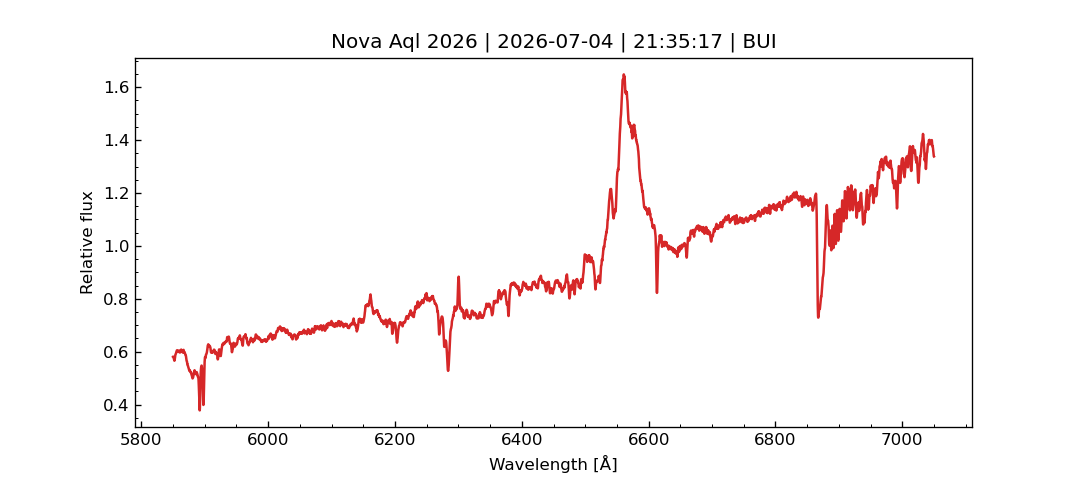
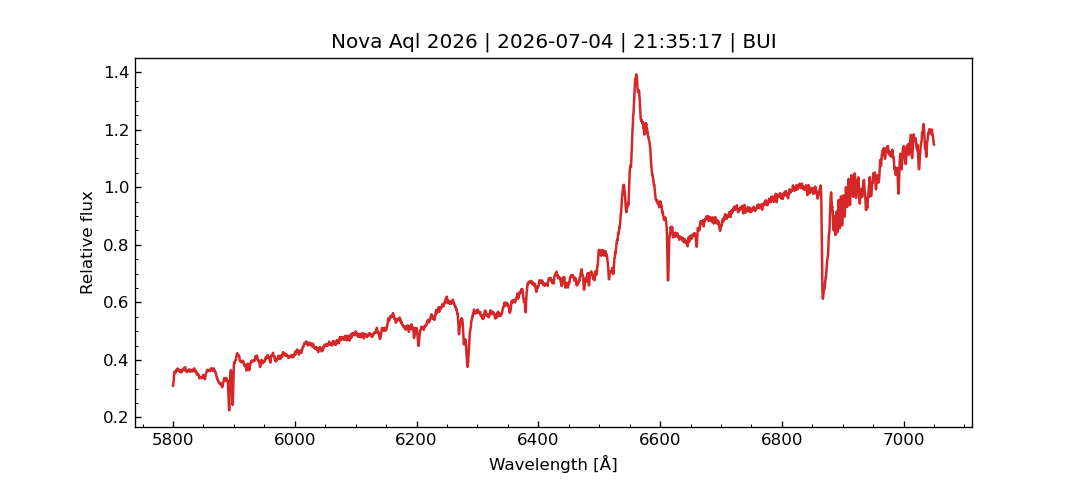
*

diff --git a/novaaql2026.html b/novaaql2026.html
@@ -154,6 +154,21 @@
     </tr>
     <tr>
       <td>2026-07-03</td>
+      <td>06:41</td>
+      <td>61224.779</td>
+      <td>JRF</td>
+      <td>MTP-US</td>
+      <td>502</td>
+      <td><svg xmlns="http://www.w3.org/2000/svg" width="5" height="16" fill="#007bff" class="bi bi-square-fill" viewBox="1 0 5 16"><path d="M0 2a2 2 0 0 1 2-2h12a2 2 0 0 1 2 2v12a2 2 0 0 1-2 2H2a2 2 0 0 1-2-2V2z"/></svg></td>
+      <td>3682</td>
+      <td>7400</td>
+      <td><svg xmlns="http://www.w3.org/2000/svg" width="5" height="16" fill="#151B8D" class="bi bi-square-fill" viewBox="1 0 5 16"><path d="M0 2a2 2 0 0 1 2-2h12a2 2 0 0 1 2 2v12a2 2 0 0 1-2 2H2a2 2 0 0 1-2-2V2z"/></svg><svg xmlns="http://www.w3.org/2000/svg" width="5" height="16" fill="#4AA02C" class="bi bi-square-fill" viewBox="1 0 5 16"><path d="M0 2a2 2 0 0 1 2-2h12a2 2 0 0 1 2 2v12a2 2 0 0 1-2 2H2a2 2 0 0 1-2-2V2z"/></svg><svg xmlns="http://www.w3.org/2000/svg" width="5" height="16" fill="#EAC117" class="bi bi-square-fill" viewBox="1 0 5 16"><path d="M0 2a2 2 0 0 1 2-2h12a2 2 0 0 1 2 2v12a2 2 0 0 1-2 2H2a2 2 0 0 1-2-2V2z"/></svg><svg xmlns="http://www.w3.org/2000/svg" width="5" height="16" fill="#E42217" class="bi bi-square-fill" viewBox="1 0 5 16"><path d="M0 2a2 2 0 0 1 2-2h12a2 2 0 0 1 2 2v12a2 2 0 0 1-2 2H2a2 2 0 0 1-2-2V2z"/></svg></td>
+      <td><a href="spectra/asdb_novaaql2026_20260703_279.fit" download target="_blank"><svg width="1em" height="1em" viewBox="0 0 16 16" class="bi bi-download" fill="currentColor" xmlns="http://www.w3.org/2000/svg"><path fill-rule="evenodd" d="M.5 8a.5.5 0 0 1 .5.5V12a1 1 0 0 0 1 1h12a1 1 0 0 0 1-1V8.5a.5.5 0 0 1 1 0V12a2 2 0 0 1-2 2H2a2 2 0 0 1-2-2V8.5A.5.5 0 0 1 .5 8z"/><path fill-rule="evenodd" d="M5 7.5a.5.5 0 0 1 .707 0L8 9.793 10.293 7.5a.5.5 0 1 1 .707.707l-2.646 2.647a.5.5 0 0 1-.708 0L5 8.207A.5.5 0 0 1 5 7.5z"/><path fill-rule="evenodd" d="M8 1a.5.5 0 0 1 .5.5v8a.5.5 0 0 1-1 0v-8A.5.5 0 0 1 8 1z"/></svg></a></td>
+      <td><a href="figures/asdb_novaaql2026_20260703_279.png" target="_blank"><svg width="1em" height="1em" viewBox="0 0 16 16" class="bi bi-eye" fill="currentColor" xmlns="http://www.w3.org/2000/svg"><path fill-rule="evenodd" d="M16 8s-3-5.5-8-5.5S0 8 0 8s3 5.5 8 5.5S16 8 16 8zM1.173 8a13.134 13.134 0 0 0 1.66 2.043C4.12 11.332 5.88 12.5 8 12.5c2.12 0 3.879-1.168 5.168-2.457A13.134 13.134 0 0 0 14.828 8a13.133 13.133 0 0 0-1.66-2.043C11.879 4.668 10.119 3.5 8 3.5c-2.12 0-3.879 1.168-5.168 2.457A13.133 13.133 0 0 0 1.172 8z"/><path fill-rule="evenodd" d="M8 5.5a2.5 2.5 0 1 0 0 5 2.5 2.5 0 0 0 0-5zM4.5 8a3.5 3.5 0 1 1 7 0 3.5 3.5 0 0 1-7 0z"/></svg></a></td>
+      <td></td>
+    </tr>
+    <tr>
+      <td>2026-07-03</td>
       <td>21:12</td>
       <td>61225.384</td>
       <td>VLE</td>
@@ -220,26 +235,11 @@
       <td>ANT-FR</td>
       <td>2775</td>
       <td><svg xmlns="http://www.w3.org/2000/svg" width="5" height="16" fill="#007bff" class="bi bi-square-fill" viewBox="1 0 5 16"><path d="M0 2a2 2 0 0 1 2-2h12a2 2 0 0 1 2 2v12a2 2 0 0 1-2 2H2a2 2 0 0 1-2-2V2z"/></svg><svg xmlns="http://www.w3.org/2000/svg" width="5" height="16" fill="#007bff" class="bi bi-square-fill" viewBox="1 0 5 16"><path d="M0 2a2 2 0 0 1 2-2h12a2 2 0 0 1 2 2v12a2 2 0 0 1-2 2H2a2 2 0 0 1-2-2V2z"/></svg><svg xmlns="http://www.w3.org/2000/svg" width="5" height="16" fill="#007bff" class="bi bi-square-fill" viewBox="1 0 5 16"><path d="M0 2a2 2 0 0 1 2-2h12a2 2 0 0 1 2 2v12a2 2 0 0 1-2 2H2a2 2 0 0 1-2-2V2z"/></svg></td>
-      <td>5850</td>
+      <td>5800</td>
       <td>7050</td>
       <td><svg xmlns="http://www.w3.org/2000/svg" width="5" height="16" fill="#EAC117" class="bi bi-square-fill" viewBox="1 0 5 16"><path d="M0 2a2 2 0 0 1 2-2h12a2 2 0 0 1 2 2v12a2 2 0 0 1-2 2H2a2 2 0 0 1-2-2V2z"/></svg><svg xmlns="http://www.w3.org/2000/svg" width="5" height="16" fill="#E42217" class="bi bi-square-fill" viewBox="1 0 5 16"><path d="M0 2a2 2 0 0 1 2-2h12a2 2 0 0 1 2 2v12a2 2 0 0 1-2 2H2a2 2 0 0 1-2-2V2z"/></svg></td>
       <td><a href="spectra/asdb_novaaql2026_20260704_899.fit" download target="_blank"><svg width="1em" height="1em" viewBox="0 0 16 16" class="bi bi-download" fill="currentColor" xmlns="http://www.w3.org/2000/svg"><path fill-rule="evenodd" d="M.5 8a.5.5 0 0 1 .5.5V12a1 1 0 0 0 1 1h12a1 1 0 0 0 1-1V8.5a.5.5 0 0 1 1 0V12a2 2 0 0 1-2 2H2a2 2 0 0 1-2-2V8.5A.5.5 0 0 1 .5 8z"/><path fill-rule="evenodd" d="M5 7.5a.5.5 0 0 1 .707 0L8 9.793 10.293 7.5a.5.5 0 1 1 .707.707l-2.646 2.647a.5.5 0 0 1-.708 0L5 8.207A.5.5 0 0 1 5 7.5z"/><path fill-rule="evenodd" d="M8 1a.5.5 0 0 1 .5.5v8a.5.5 0 0 1-1 0v-8A.5.5 0 0 1 8 1z"/></svg></a></td>
       <td><a href="figures/asdb_novaaql2026_20260704_899.png" target="_blank"><svg width="1em" height="1em" viewBox="0 0 16 16" class="bi bi-eye" fill="currentColor" xmlns="http://www.w3.org/2000/svg"><path fill-rule="evenodd" d="M16 8s-3-5.5-8-5.5S0 8 0 8s3 5.5 8 5.5S16 8 16 8zM1.173 8a13.134 13.134 0 0 0 1.66 2.043C4.12 11.332 5.88 12.5 8 12.5c2.12 0 3.879-1.168 5.168-2.457A13.134 13.134 0 0 0 14.828 8a13.133 13.133 0 0 0-1.66-2.043C11.879 4.668 10.119 3.5 8 3.5c-2.12 0-3.879 1.168-5.168 2.457A13.133 13.133 0 0 0 1.172 8z"/><path fill-rule="evenodd" d="M8 5.5a2.5 2.5 0 1 0 0 5 2.5 2.5 0 0 0 0-5zM4.5 8a3.5 3.5 0 1 1 7 0 3.5 3.5 0 0 1-7 0z"/></svg></a></td>
-      <td></td>
-    </tr>
-    <tr>
-      <td>2026-07-03</td>
-      <td>06:41</td>
-      <td>61224.779</td>
-      <td>JRF</td>
-      <td>MTP-US</td>
-      <td>502</td>
-      <td><svg xmlns="http://www.w3.org/2000/svg" width="5" height="16" fill="#007bff" class="bi bi-square-fill" viewBox="1 0 5 16"><path d="M0 2a2 2 0 0 1 2-2h12a2 2 0 0 1 2 2v12a2 2 0 0 1-2 2H2a2 2 0 0 1-2-2V2z"/></svg></td>
-      <td>3682</td>
-      <td>7400</td>
-      <td><svg xmlns="http://www.w3.org/2000/svg" width="5" height="16" fill="#151B8D" class="bi bi-square-fill" viewBox="1 0 5 16"><path d="M0 2a2 2 0 0 1 2-2h12a2 2 0 0 1 2 2v12a2 2 0 0 1-2 2H2a2 2 0 0 1-2-2V2z"/></svg><svg xmlns="http://www.w3.org/2000/svg" width="5" height="16" fill="#4AA02C" class="bi bi-square-fill" viewBox="1 0 5 16"><path d="M0 2a2 2 0 0 1 2-2h12a2 2 0 0 1 2 2v12a2 2 0 0 1-2 2H2a2 2 0 0 1-2-2V2z"/></svg><svg xmlns="http://www.w3.org/2000/svg" width="5" height="16" fill="#EAC117" class="bi bi-square-fill" viewBox="1 0 5 16"><path d="M0 2a2 2 0 0 1 2-2h12a2 2 0 0 1 2 2v12a2 2 0 0 1-2 2H2a2 2 0 0 1-2-2V2z"/></svg><svg xmlns="http://www.w3.org/2000/svg" width="5" height="16" fill="#E42217" class="bi bi-square-fill" viewBox="1 0 5 16"><path d="M0 2a2 2 0 0 1 2-2h12a2 2 0 0 1 2 2v12a2 2 0 0 1-2 2H2a2 2 0 0 1-2-2V2z"/></svg></td>
-      <td><a href="spectra/asdb_novaaql2026_20260703_279.fit" download target="_blank"><svg width="1em" height="1em" viewBox="0 0 16 16" class="bi bi-download" fill="currentColor" xmlns="http://www.w3.org/2000/svg"><path fill-rule="evenodd" d="M.5 8a.5.5 0 0 1 .5.5V12a1 1 0 0 0 1 1h12a1 1 0 0 0 1-1V8.5a.5.5 0 0 1 1 0V12a2 2 0 0 1-2 2H2a2 2 0 0 1-2-2V8.5A.5.5 0 0 1 .5 8z"/><path fill-rule="evenodd" d="M5 7.5a.5.5 0 0 1 .707 0L8 9.793 10.293 7.5a.5.5 0 1 1 .707.707l-2.646 2.647a.5.5 0 0 1-.708 0L5 8.207A.5.5 0 0 1 5 7.5z"/><path fill-rule="evenodd" d="M8 1a.5.5 0 0 1 .5.5v8a.5.5 0 0 1-1 0v-8A.5.5 0 0 1 8 1z"/></svg></a></td>
-      <td><a href="figures/asdb_novaaql2026_20260703_279.png" target="_blank"><svg width="1em" height="1em" viewBox="0 0 16 16" class="bi bi-eye" fill="currentColor" xmlns="http://www.w3.org/2000/svg"><path fill-rule="evenodd" d="M16 8s-3-5.5-8-5.5S0 8 0 8s3 5.5 8 5.5S16 8 16 8zM1.173 8a13.134 13.134 0 0 0 1.66 2.043C4.12 11.332 5.88 12.5 8 12.5c2.12 0 3.879-1.168 5.168-2.457A13.134 13.134 0 0 0 14.828 8a13.133 13.133 0 0 0-1.66-2.043C11.879 4.668 10.119 3.5 8 3.5c-2.12 0-3.879 1.168-5.168 2.457A13.133 13.133 0 0 0 1.172 8z"/><path fill-rule="evenodd" d="M8 5.5a2.5 2.5 0 1 0 0 5 2.5 2.5 0 0 0 0-5zM4.5 8a3.5 3.5 0 1 1 7 0 3.5 3.5 0 0 1-7 0z"/></svg></a></td>
       <td></td>
     </tr>
     <tr>

diff --git a/chcyg.html b/chcyg.html
@@ -97,7 +97,7 @@
     <div class="card">
       <div class="card-body">
 
-        <p class="card-text">Number of spectra:   1048</p>
+        <p class="card-text">Number of spectra:   1047</p>
 <p class="card-text">First spectrum:   2011-04-21</p>
 <p class="card-text">Last spectrum:   2026-06-20</p>
 <br><br>
@@ -136,21 +136,6 @@
     </tr>
   </thead>
   <tbody>
-    <tr>
-      <td>2026-06-20</td>
-      <td>04:28</td>
-      <td>61211.686</td>
-      <td>FAS</td>
-      <td>DCO-US</td>
-      <td>9000</td>
-      <td><svg xmlns="http://www.w3.org/2000/svg" width="5" height="16" fill="#007bff" class="bi bi-square-fill" viewBox="1 0 5 16"><path d="M0 2a2 2 0 0 1 2-2h12a2 2 0 0 1 2 2v12a2 2 0 0 1-2 2H2a2 2 0 0 1-2-2V2z"/></svg><svg xmlns="http://www.w3.org/2000/svg" width="5" height="16" fill="#007bff" class="bi bi-square-fill" viewBox="1 0 5 16"><path d="M0 2a2 2 0 0 1 2-2h12a2 2 0 0 1 2 2v12a2 2 0 0 1-2 2H2a2 2 0 0 1-2-2V2z"/></svg><svg xmlns="http://www.w3.org/2000/svg" width="5" height="16" fill="#007bff" class="bi bi-square-fill" viewBox="1 0 5 16"><path d="M0 2a2 2 0 0 1 2-2h12a2 2 0 0 1 2 2v12a2 2 0 0 1-2 2H2a2 2 0 0 1-2-2V2z"/></svg><svg xmlns="http://www.w3.org/2000/svg" width="5" height="16" fill="#007bff" class="bi bi-square-fill" viewBox="1 0 5 16"><path d="M0 2a2 2 0 0 1 2-2h12a2 2 0 0 1 2 2v12a2 2 0 0 1-2 2H2a2 2 0 0 1-2-2V2z"/></svg><svg xmlns="http://www.w3.org/2000/svg" width="5" height="16" fill="#007bff" class="bi bi-square-fill" viewBox="1 0 5 16"><path d="M0 2a2 2 0 0 1 2-2h12a2 2 0 0 1 2 2v12a2 2 0 0 1-2 2H2a2 2 0 0 1-2-2V2z"/></svg></td>
-      <td>3775</td>
-      <td>9250</td>
-      <td><svg xmlns="http://www.w3.org/2000/svg" width="5" height="16" fill="#151B8D" class="bi bi-square-fill" viewBox="1 0 5 16"><path d="M0 2a2 2 0 0 1 2-2h12a2 2 0 0 1 2 2v12a2 2 0 0 1-2 2H2a2 2 0 0 1-2-2V2z"/></svg><svg xmlns="http://www.w3.org/2000/svg" width="5" height="16" fill="#4AA02C" class="bi bi-square-fill" viewBox="1 0 5 16"><path d="M0 2a2 2 0 0 1 2-2h12a2 2 0 0 1 2 2v12a2 2 0 0 1-2 2H2a2 2 0 0 1-2-2V2z"/></svg><svg xmlns="http://www.w3.org/2000/svg" width="5" height="16" fill="#EAC117" class="bi bi-square-fill" viewBox="1 0 5 16"><path d="M0 2a2 2 0 0 1 2-2h12a2 2 0 0 1 2 2v12a2 2 0 0 1-2 2H2a2 2 0 0 1-2-2V2z"/></svg><svg xmlns="http://www.w3.org/2000/svg" width="5" height="16" fill="#E42217" class="bi bi-square-fill" viewBox="1 0 5 16"><path d="M0 2a2 2 0 0 1 2-2h12a2 2 0 0 1 2 2v12a2 2 0 0 1-2 2H2a2 2 0 0 1-2-2V2z"/></svg><svg xmlns="http://www.w3.org/2000/svg" width="5" height="16" fill="#8C001A" class="bi bi-square-fill" viewBox="1 0 5 16"><path d="M0 2a2 2 0 0 1 2-2h12a2 2 0 0 1 2 2v12a2 2 0 0 1-2 2H2a2 2 0 0 1-2-2V2z"/></svg></td>
-      <td><a href="spectra/asdb_chcyg_20260620_186.fit" download target="_blank"><svg width="1em" height="1em" viewBox="0 0 16 16" class="bi bi-download" fill="currentColor" xmlns="http://www.w3.org/2000/svg"><path fill-rule="evenodd" d="M.5 8a.5.5 0 0 1 .5.5V12a1 1 0 0 0 1 1h12a1 1 0 0 0 1-1V8.5a.5.5 0 0 1 1 0V12a2 2 0 0 1-2 2H2a2 2 0 0 1-2-2V8.5A.5.5 0 0 1 .5 8z"/><path fill-rule="evenodd" d="M5 7.5a.5.5 0 0 1 .707 0L8 9.793 10.293 7.5a.5.5 0 1 1 .707.707l-2.646 2.647a.5.5 0 0 1-.708 0L5 8.207A.5.5 0 0 1 5 7.5z"/><path fill-rule="evenodd" d="M8 1a.5.5 0 0 1 .5.5v8a.5.5 0 0 1-1 0v-8A.5.5 0 0 1 8 1z"/></svg></a></td>
-      <td><a href="figures/asdb_chcyg_20260620_186.png" target="_blank"><svg width="1em" height="1em" viewBox="0 0 16 16" class="bi bi-eye" fill="currentColor" xmlns="http://www.w3.org/2000/svg"><path fill-rule="evenodd" d="M16 8s-3-5.5-8-5.5S0 8 0 8s3 5.5 8 5.5S16 8 16 8zM1.173 8a13.134 13.134 0 0 0 1.66 2.043C4.12 11.332 5.88 12.5 8 12.5c2.12 0 3.879-1.168 5.168-2.457A13.134 13.134 0 0 0 14.828 8a13.133 13.133 0 0 0-1.66-2.043C11.879 4.668 10.119 3.5 8 3.5c-2.12 0-3.879 1.168-5.168 2.457A13.133 13.133 0 0 0 1.172 8z"/><path fill-rule="evenodd" d="M8 5.5a2.5 2.5 0 1 0 0 5 2.5 2.5 0 0 0 0-5zM4.5 8a3.5 3.5 0 1 1 7 0 3.5 3.5 0 0 1-7 0z"/></svg></a></td>
-      <td></td>
-    </tr>
     <tr>
       <td>2026-06-20</td>
       <td>04:28</td>

diff --git a/symbiotics.html b/symbiotics.html
@@ -75,8 +75,8 @@
  <a href="https://ui.adsabs.harvard.edu/abs/2019ApJS..240...21A/abstract">Symbiotic stars with 2MASS, WISE & Gaia</a></p>
  <style>table {text-align: center;}table thead th {text-align: center;}</style>
 <p class="card-text">Number of stars: 115
-</p><p class="card-text">Number of spectra: 11907
-</p><p class="card-text">Last update: 2026-07-06, 17:42</p>
+</p><p class="card-text">Number of spectra: 11906
+</p><p class="card-text">Last update: 2026-07-06, 17:53</p>
 <br><br>
 <a href="observers.html" class="btn btn-secondary">Observers</a>
         <a href="observatories.html" class="btn btn-secondary">Observatories</a>
@@ -328,7 +328,7 @@
       <td><a href="chcyg.html">CH Cyg</a></td>
       <td>19 24 33.07</td>
       <td>[phone redacted]</td>
-      <td>1048</td>
+      <td>1047</td>
       <td>2011-04-21</td>
       <td>2026-06-20</td>
       <td><script>var date1, date2;date1 = new Date();date2 = new Date( "2026-06-20 00:00:00" );var res = Math.abs(date1 - date2) / 1000;var days = Math.floor(res / 86400);document.write(days);</script></td>

diff --git a/dwarf_novae.html b/dwarf_novae.html
@@ -71,7 +71,7 @@
  <style>table {text-align: center;}table thead th {text-align: center;}</style>
 <p class="card-text">Number of stars: 46
 </p><p class="card-text">Number of spectra: 427
-</p><p class="card-text">Last update: 2026-07-06, 17:42</p>
+</p><p class="card-text">Last update: 2026-07-06, 17:53</p>
 <br><br>
 <a href="observers.html" class="btn btn-secondary">Observers</a>
         <a href="observatories.html" class="btn btn-secondary">Observatories</a>

diff --git a/novae.html b/novae.html
@@ -71,7 +71,7 @@
  <style>table {text-align: center;}table thead th {text-align: center;}</style>
 <p class="card-text">Number of stars: 83
 </p><p class="card-text">Number of spectra: 4803
-</p><p class="card-text">Last update: 2026-07-06, 17:42</p>
+</p><p class="card-text">Last update: 2026-07-06, 17:53</p>
 <br><br>
 <a href="observers.html" class="btn btn-secondary">Observers</a>
         <a href="observatories.html" class="btn btn-secondary">Observatories</a>